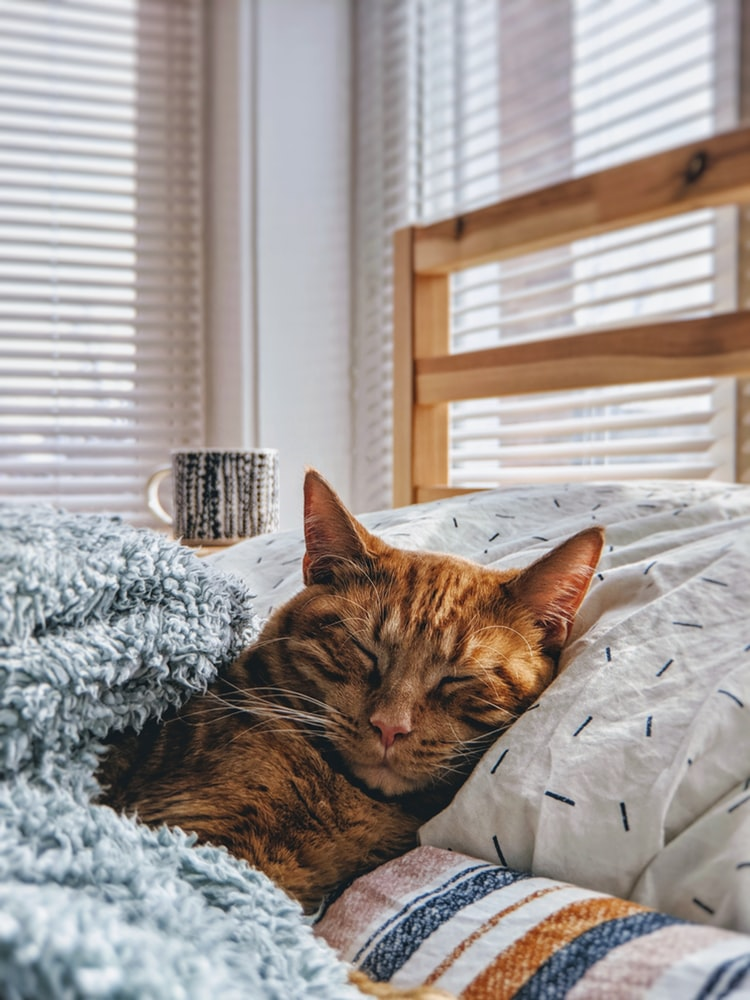
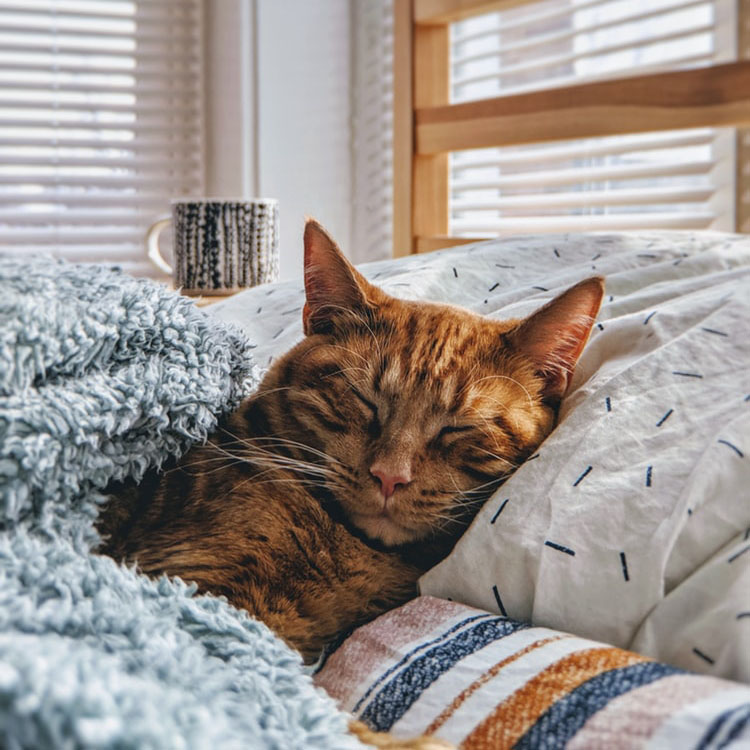
landing complete

diff --git a/static/landing-styles.css b/static/landing-styles.css
@@ -1,0 +1,135 @@
+landing-styles.css/* LANDING PAGE NAV */
+#nav-login {
+    position: absolute;
+    top: 4em;
+    left: 106px;
+}
+/* LANDING PAGE LOGO AND REGISTER */
+#caption {
+    position: absolute;
+    bottom: 97px;
+    left: 106px;
+}
+
+#caption h2 {
+    margin-top: 40px;
+    color: #797474;
+    font-size: 1.5em;
+}
+
+#logo {
+    max-width: 40%;
+    position: absolute;
+    left: 65px;
+    bottom: 240px;
+}
+
+button {
+    background-image: linear-gradient(to right, orange , #fdb0a1);
+    color: black;
+    border-radius: 7px;
+    border-color: orange;
+    width: 105px;
+    margin-top: 18px;
+}
+
+button a {
+    color: black;
+    padding-left: 13px;
+}
+
+button a:hover {
+    color: black;
+}
+
+a {
+    color: #797474;
+    margin-right: 30px;
+}
+
+a:hover {
+    color: #ff9966;
+    text-decoration: none;
+}
+/* PET HIGHLIGHTS */
+#pet-highlights {
+  margin: 0 auto;
+  max-width: 900px;
+  margin-bottom: 50px;
+}
+#pet-highlights img {
+    max-width: 100%;
+    border-radius: 50%;
+    border: 3px solid #ff9966;
+    display: inline;
+    margin-bottom: 30px;
+    margin-top: 40px;
+}
+h1 {
+    text-align: center;
+    padding-top: 50px;
+    font-size: 3em;
+    margin-bottom: 40px;
+}
+h3 {
+    text-align: center;
+}
+p {
+    text-align: center;
+}
+/* footer */
+footer {
+    font-size: 12px;
+    padding-top: 50px;
+}
+/* LANDING PAGE MEDIA QUERIES */
+@media only screen 
+  and (min-device-width: 320px) 
+  and (max-device-width: 480px)
+  and (-webkit-min-device-pixel-ratio: 2) {
+/* landing page */
+#logo{
+    max-width: 70%;
+    position: absolute;
+    top: 94px;
+    left: 14%;
+}
+#caption {
+    bottom: 9px;
+}
+#nav-login {
+    top: 44px;
+    left: 50%;
+}
+.carousel-item active {
+    height: 100%;
+    width: auto;
+}
+#cat-img {
+    height: 400px;
+}
+#dog-img {
+    height: 400px;
+    width: 1024px;
+}
+a {
+    color: #797474;
+    margin-right: 18px;
+    font-size: 18px;
+}
+#caption h2 {
+    text-align: center;
+    position: relative;
+    left: -10%;
+    top: 40px;
+}
+button {
+    position: relative;
+    bottom: 96px;
+    left: 43px;
+}
+/* pet highlights page */
+h1 {
+    font-size: 200%;
+}
+}

diff --git a/static/login-styles.css b/static/login-styles.css
@@ -1,0 +1,3 @@
+body {
+    
+}
